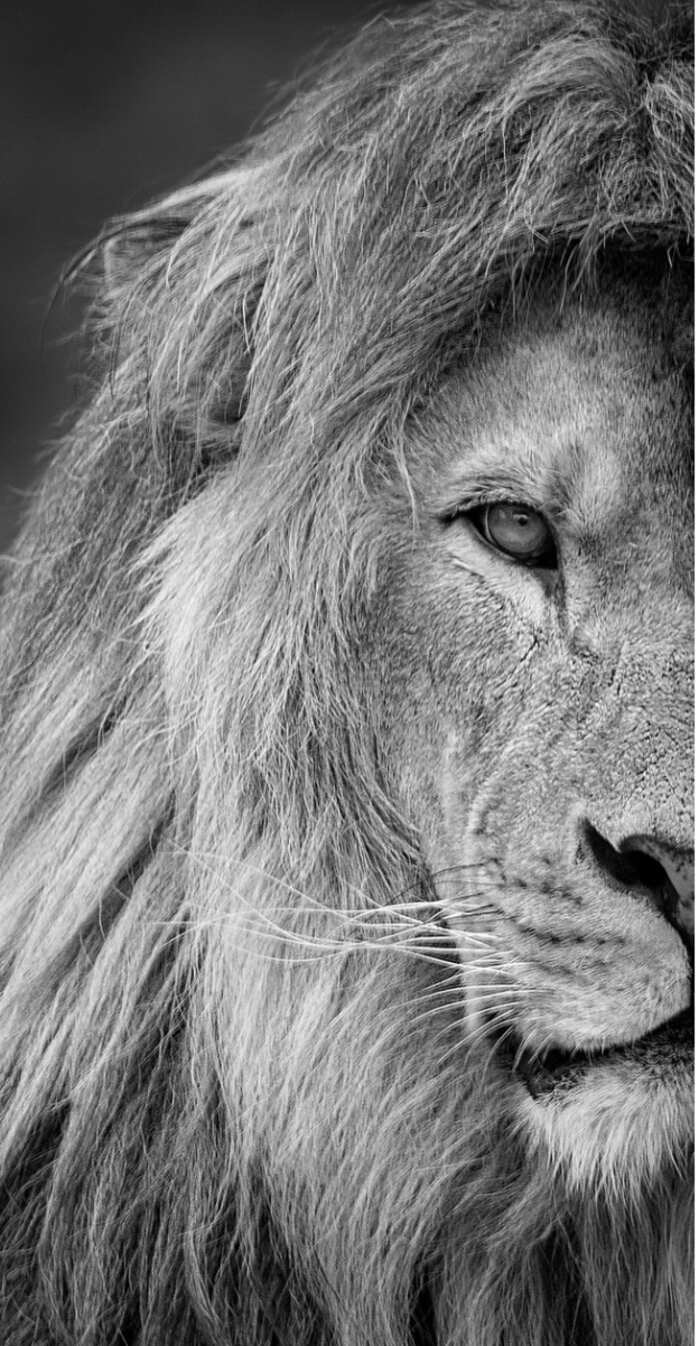
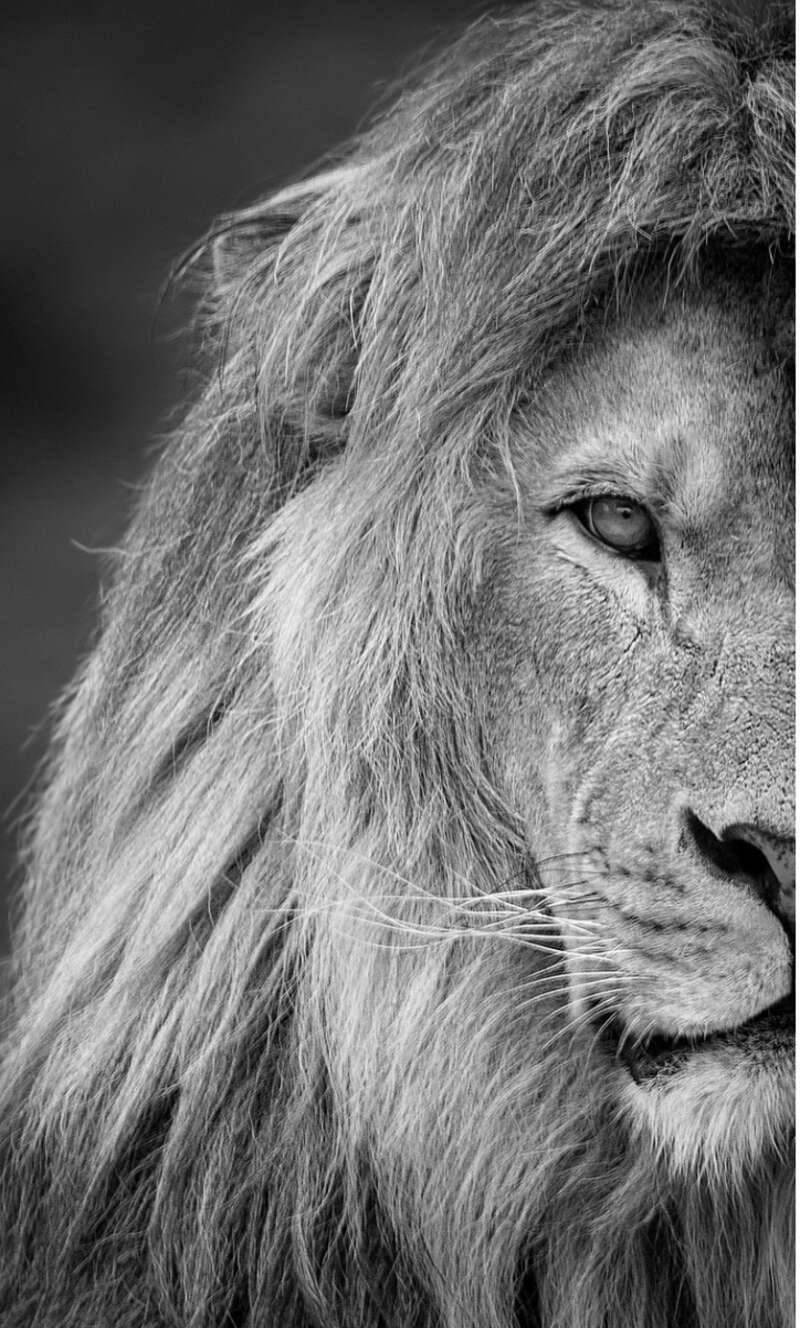
v42: fix gradient direction + re-crop to show face

diff --git a/index.html b/index.html
@@ -62,13 +62,13 @@ button{cursor:pointer;border:none;background:none}
 .login-visual-img{
   position:absolute;inset:0;
   width:100%;height:100%;
-  object-fit:cover;object-position:72% center;
-  opacity:0.85;
-  filter:grayscale(1) contrast(1.1) brightness(0.9);
+  object-fit:cover;object-position:55% center;
+  opacity:0.92;
+  filter:grayscale(1) contrast(1.05);
 }
 .login-visual::after{
   content:'';position:absolute;inset:0;
-  background:linear-gradient(90deg,transparent 30%,#0a0a0f 75%);
+  background:linear-gradient(90deg,#0a0a0f 0%,rgba(10,10,15,0.3) 40%,transparent 65%);
 }
 
 /* Right: Login form */
@@ -961,7 +961,7 @@ button{cursor:pointer;border:none;background:none}
 <!-- LOGIN PAGE -->
 <div class="login-page" id="loginPage">
   <div class="login-visual">
-    <img class="login-visual-img" src="lion.jpg?v=41" alt="">
+    <img class="login-visual-img" src="lion.jpg?v=42" alt="">
   </div>
   <div class="login-form">
     <div class="login-form-inner">
